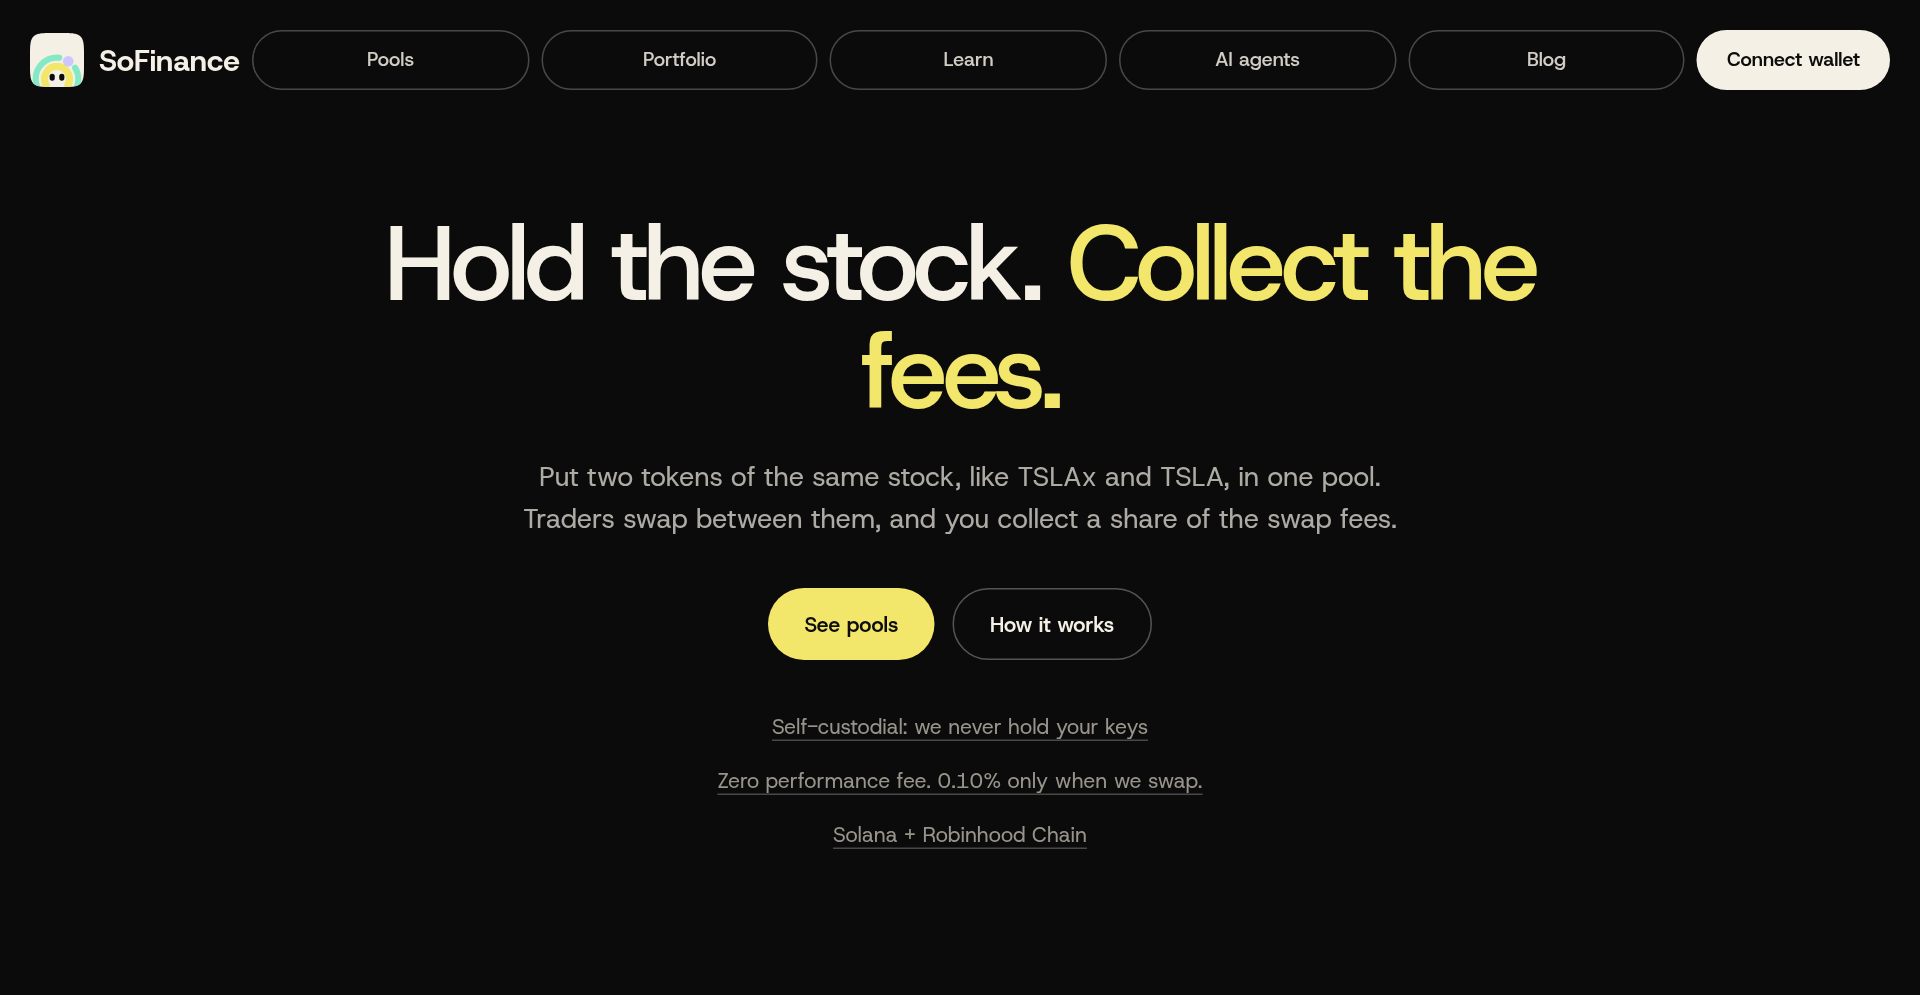
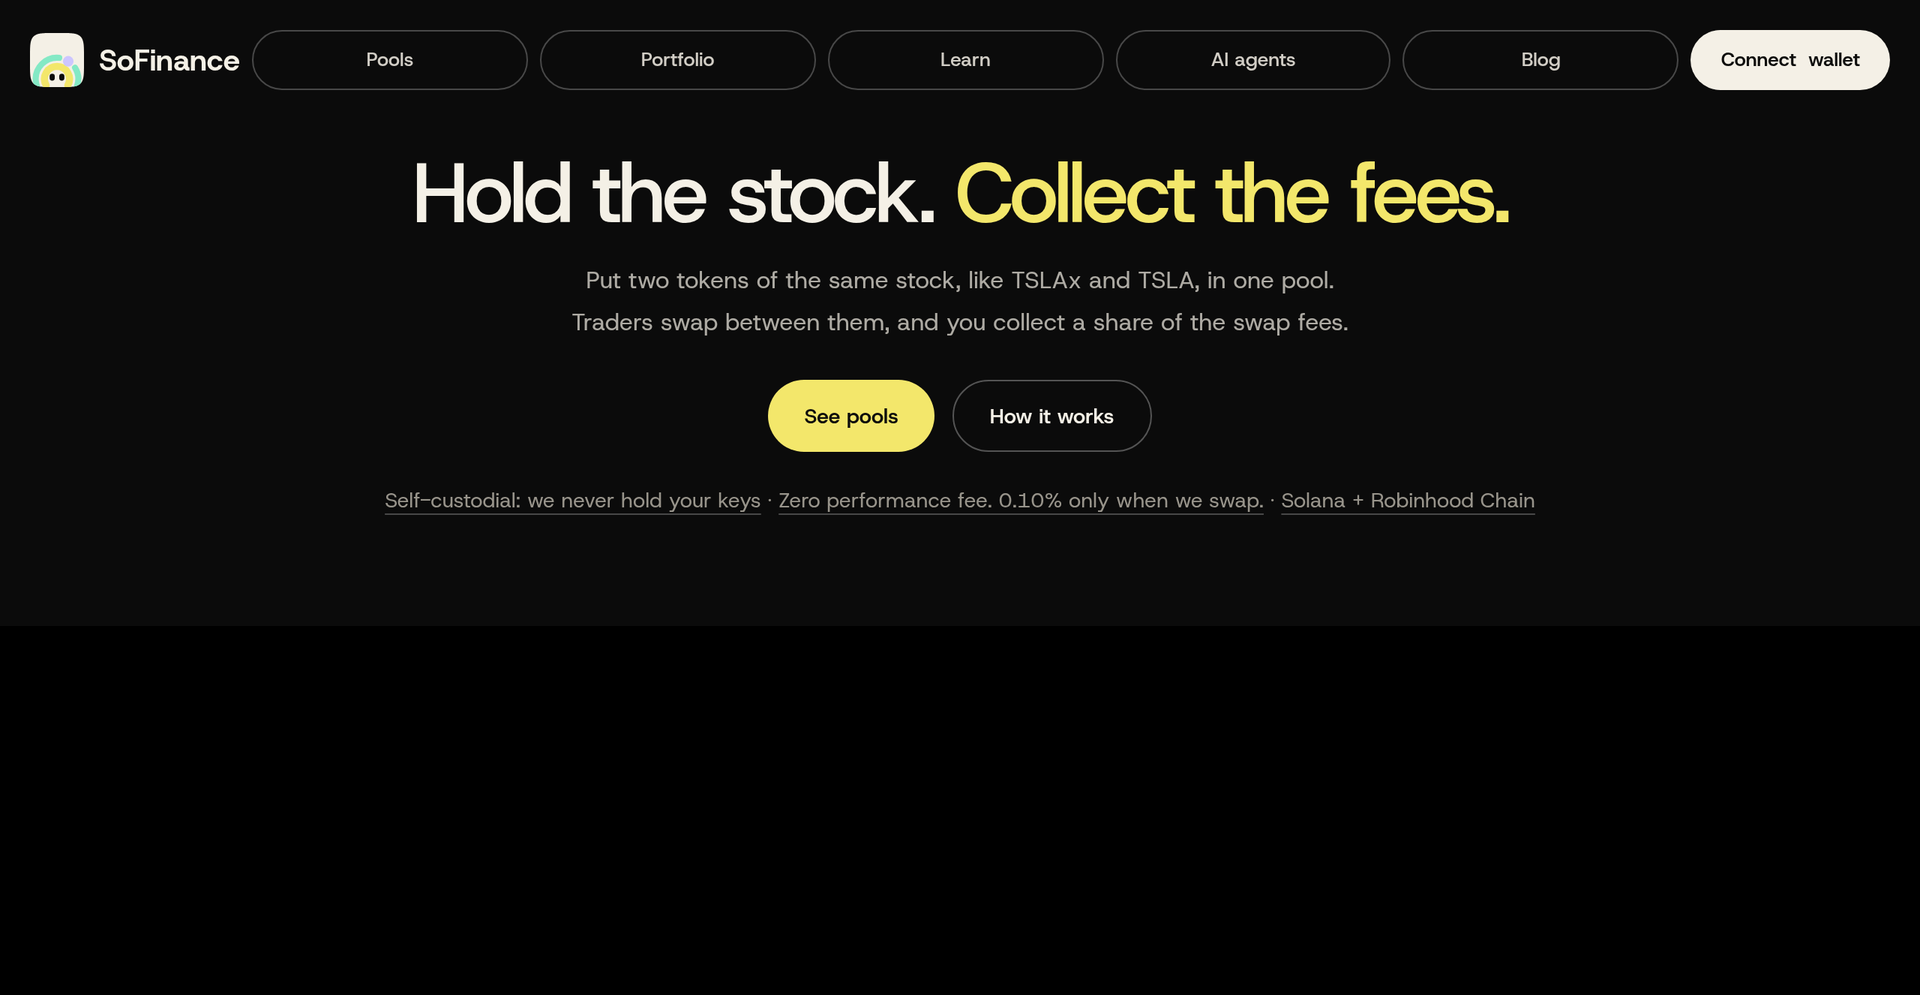
blog: point pool-list links at /pools and retake the home screenshot
The pool list is now canonical at /pools. Update the two blog posts that
still linked to /app/rwa-pairs, match the blog test, and replace the
xPoints homepage screenshot so it shows the current one-line hero.

diff --git a/src/lib/blog.test.tsx b/src/lib/blog.test.tsx
@@ -93,7 +93,7 @@ describe("blog content", () => {
     expect(html).toContain("payoff-gamma.png");
     expect(html).toContain("liquidity-behavior.png");
     expect(html).toContain("comparison-table.png");
-    expect(html).toContain('href="/app/rwa-pairs?ref=x-article"');
+    expect(html).toContain('href="/pools?ref=x-article"');
   });
 
   it("publishes competitor-comparison with crawlable title, hero PNG, and an honest swap-fee disclosure", () => {

diff --git a/content/blog/how-to-provide-liquidity-raydium-orca-meteora.md b/content/blog/how-to-provide-liquidity-raydium-orca-meteora.md
@@ -195,7 +195,7 @@ Yes. The two tokens can drift apart in price, the issuers can freeze or restrict
 
 ## Where SoFinance fits
 
-SoFinance is a self-custodial tool for same-stock positions on Raydium CLMM and Meteora DLMM on Solana, and Uniswap v4 on Robinhood Chain. You can open a position from a single token, see a suggested range based on recent fee data, and sign in your own wallet. The position stays a standard Raydium or Meteora position, so you can also manage it directly on that venue. We charge 0.10% only when we swap tokens for you; see [Pricing](/fees). We do not support Orca today. The full pool list is on the [pools page](/app/rwa-pairs).
+SoFinance is a self-custodial tool for same-stock positions on Raydium CLMM and Meteora DLMM on Solana, and Uniswap v4 on Robinhood Chain. You can open a position from a single token, see a suggested range based on recent fee data, and sign in your own wallet. The position stays a standard Raydium or Meteora position, so you can also manage it directly on that venue. We charge 0.10% only when we swap tokens for you; see [Pricing](/fees). We do not support Orca today. The full pool list is on the [pools page](/pools).
 
 ---
 

diff --git a/content/blog/dex-evolution.md b/content/blog/dex-evolution.md
@@ -185,6 +185,6 @@ SoFinance isn't affiliated with Metric, Fables, Raydium, Jupiter, xStocks, Backp
 
 If you hold a tokenized stock and want to see what a same-stock pool looks like, including its suggested ranges (Solana pools) and risk flags, before you commit anything:
 
-**[https://sofinancelab.xyz/app/rwa-pairs?ref=x-article](https://sofinancelab.xyz/app/rwa-pairs?ref=x-article)**
+**[https://sofinancelab.xyz/pools?ref=x-article](https://sofinancelab.xyz/pools?ref=x-article)**
 
 *Not financial advice. Providing liquidity can lose money.*
